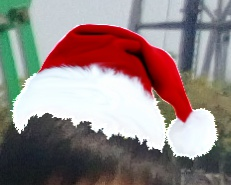
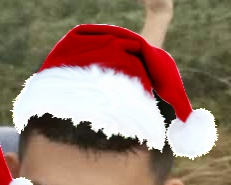
Sample code improved: M add_hat.jpg  M add_hat.py  M bg.jpg  D mmexport1493386807101.jpg  M output.jpg ?? mmexport1506238138243.jpg

diff --git a/python-sample/add_hat/add_hat.py b/python-sample/add_hat/add_hat.py
@@ -65,7 +65,7 @@ def add_hat(img,hat_img):
             eyes_center = ((point1.x+point2.x)//2,(point1.y+point2.y)//2)
 
             # 显示两眼中心点
-            cv2.circle(img,eyes_center,3,color=(0,255,0))  
+            # cv2.circle(img,eyes_center,3,color=(0,255,0))  
             # cv2.imshow("image",img)
             # cv2.waitKey()
 
@@ -85,7 +85,7 @@ def add_hat(img,hat_img):
             mask_inv =  cv2.bitwise_not(mask)
 
             # 帽子相对与人脸框上线的偏移量
-            dh = 10
+            dh = 20
             dw = 0
             # 原图ROI
             # bg_roi = img[y+dh-resized_hat_h:y+dh, x+dw:x+dw+resized_hat_w]
@@ -144,7 +144,7 @@ hat_img = cv2.imread("hat2.png",-1)
 
 # 读取头像图
 # img = cv2.imread("07_01 290x293.jpg")
-img = cv2.imread("mmexport1493386807101.jpg")
+img = cv2.imread("mmexport1506238138243.jpg")
 output = add_hat(img,hat_img)
 
 # 展示效果
